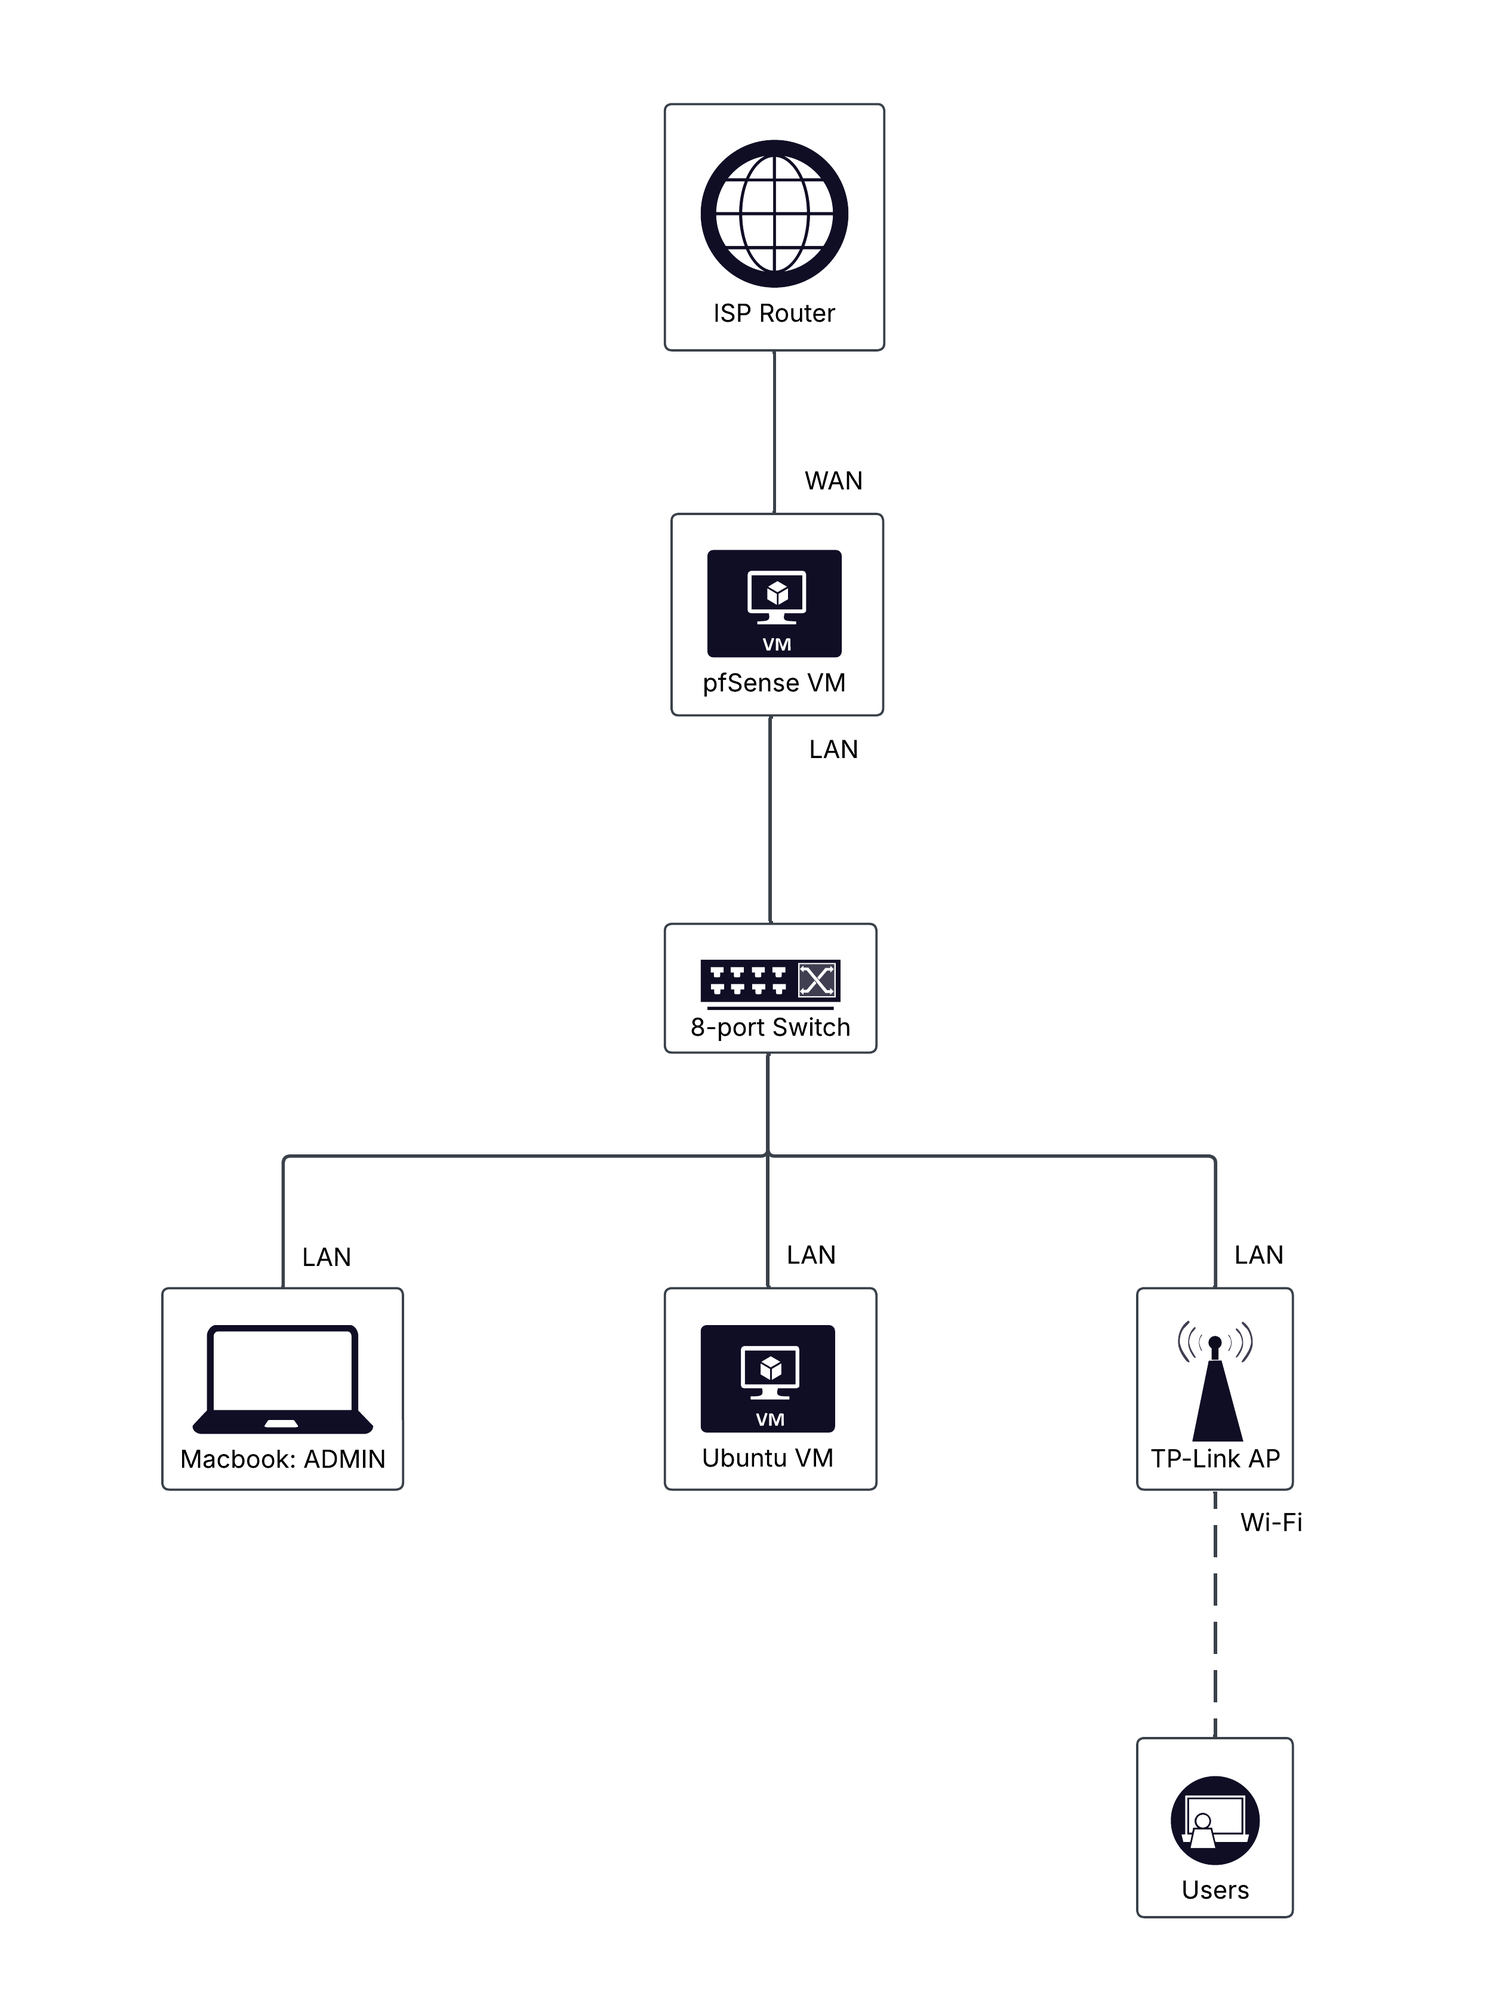
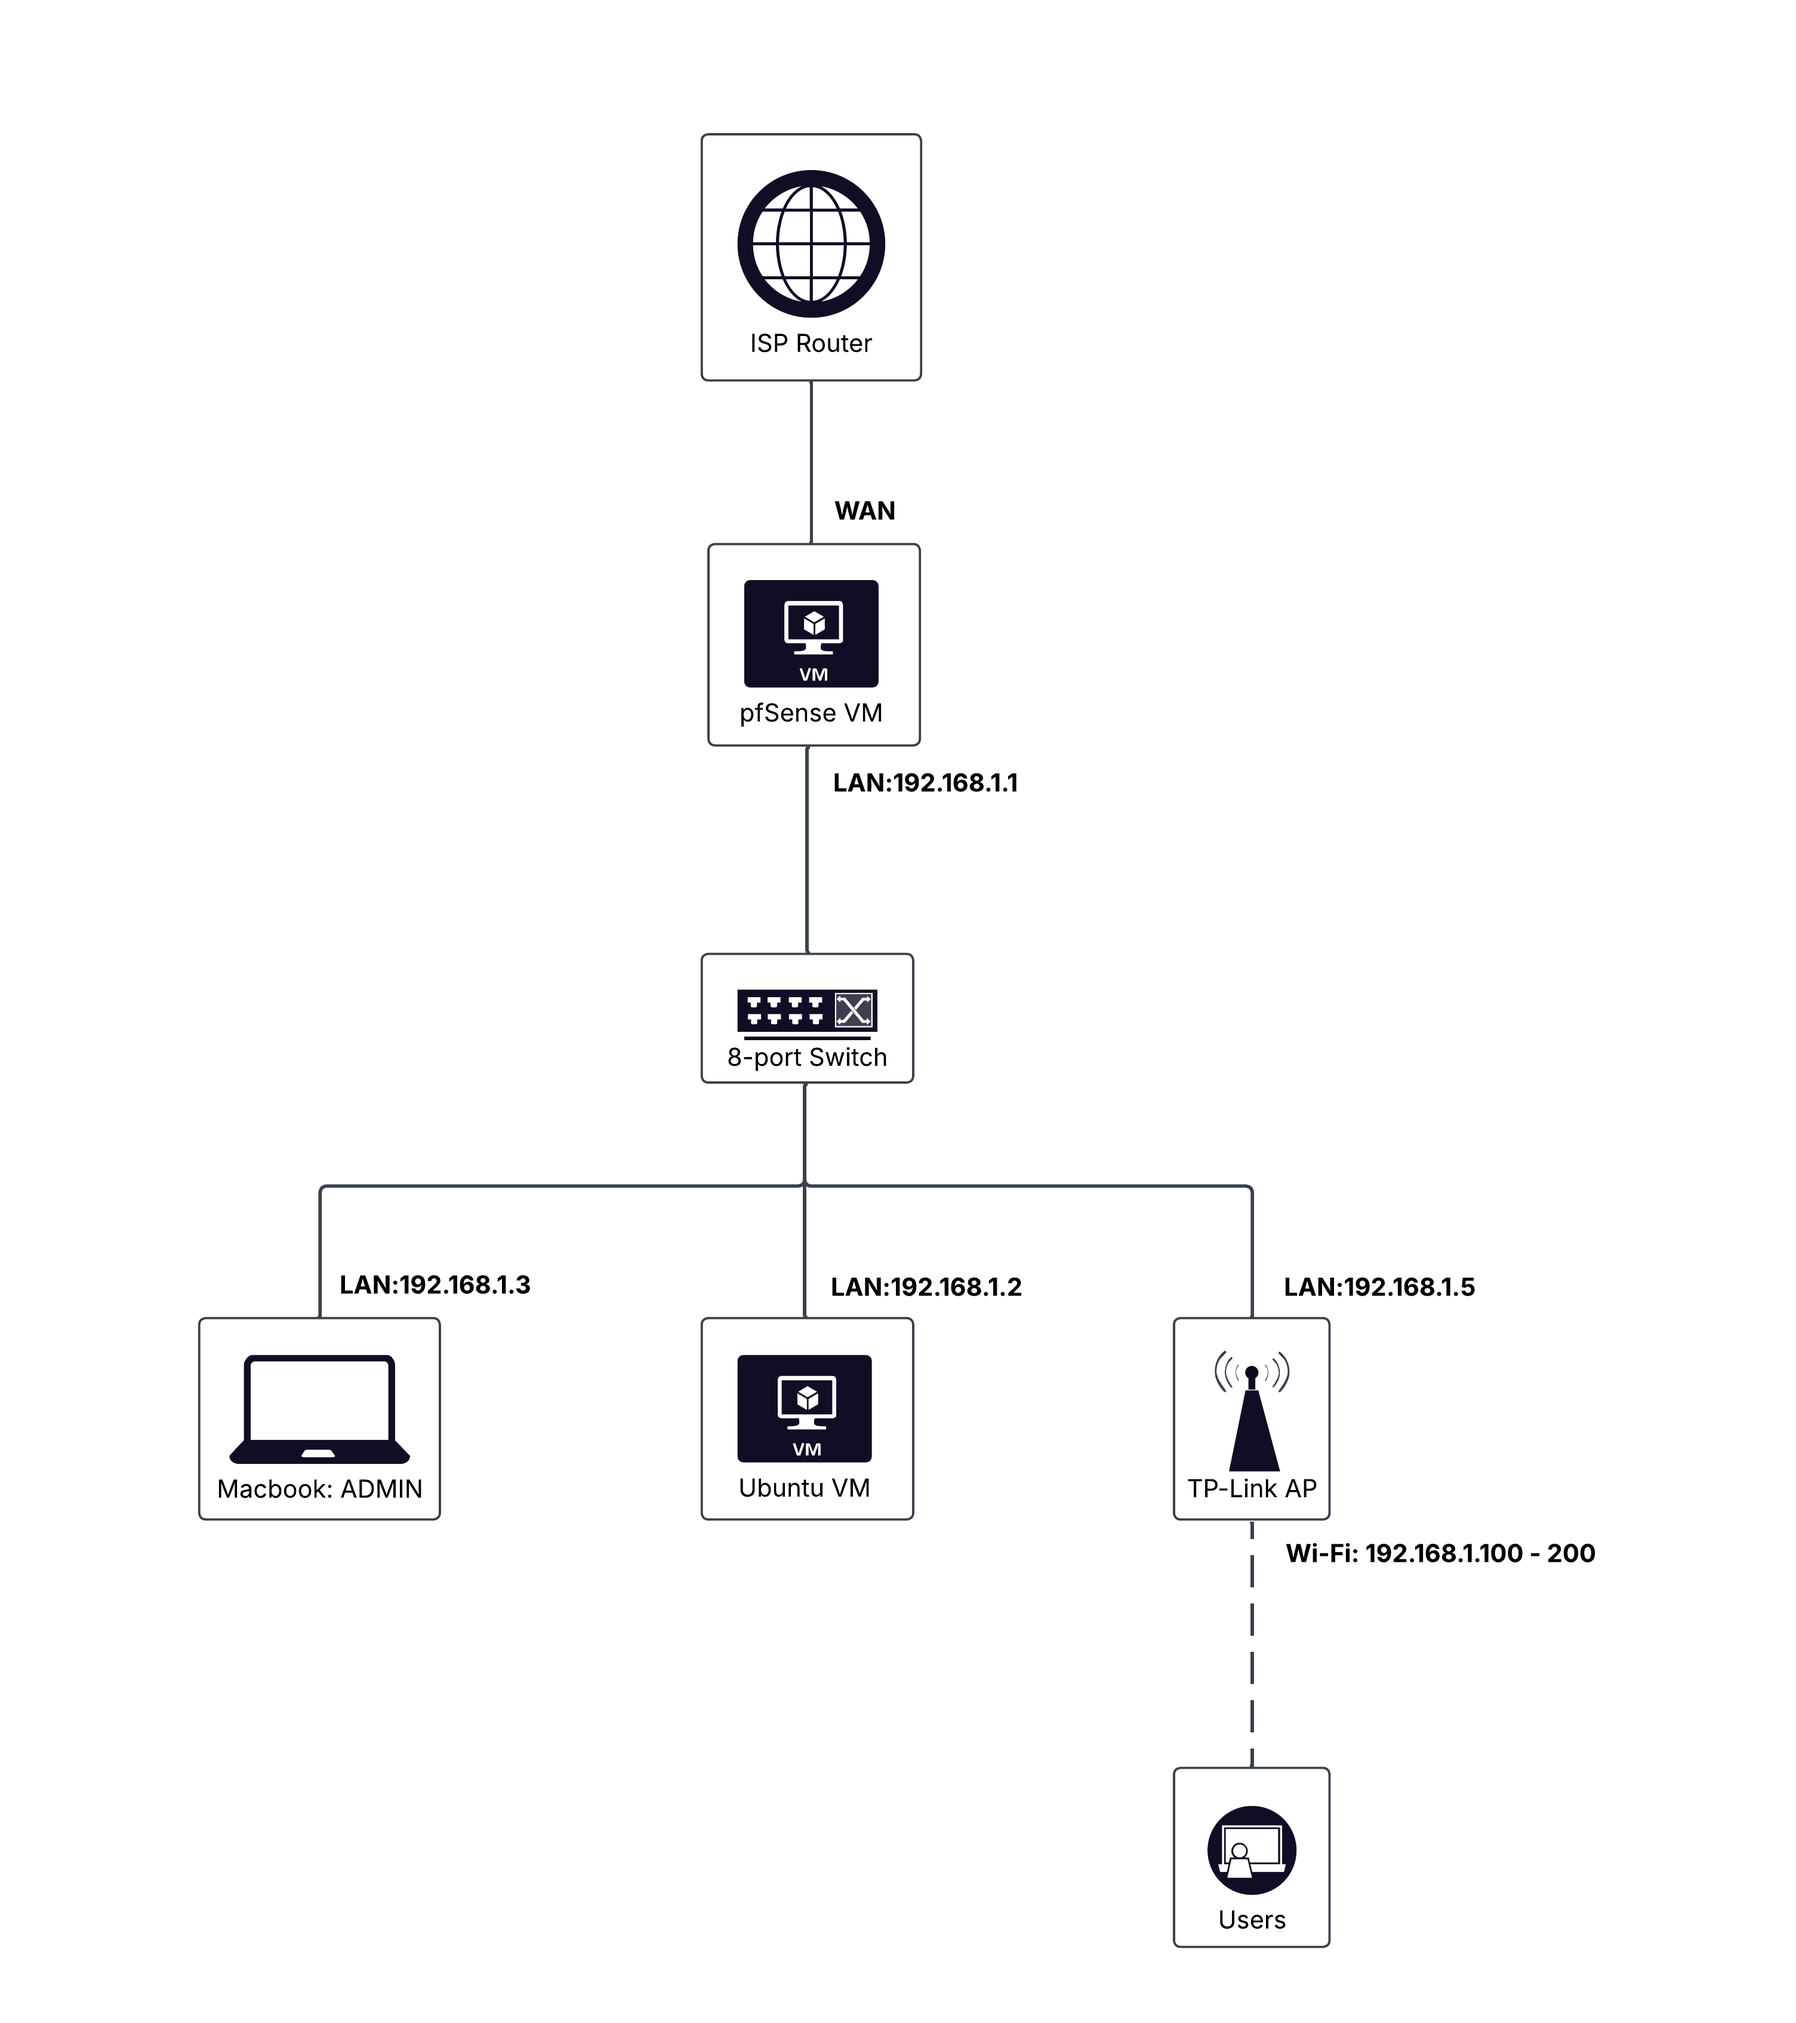
Update commit: add updated openhaus project structure and day 2 updates

diff --git a/docs/setup_notes.md b/docs/setup_notes.md
@@ -1,0 +1,93 @@
+# OpenHaus Setup Notes
+
+## Hardware and VM Setup
+This section details the configuration of the OpenHaus network components, covering the OpenWrt AP, USB-C Ethernet, pfSense VM, and Ubuntu VM setups.
+
+---
+
+### OpenWrt AP Configuration
+**Summary**: Configuration of the OpenWrt AP to serve as a wireless access point with captive portal support.
+- **LAN**:
+  - Static IP: 192.168.1.5
+  - Subnet Mask: 255.255.255.0
+  - DHCP: Disabled
+  - Gateway: None
+- **Wireless**:
+  - SSID: OpenHaus Free Wi-Fi (Demo)
+  - Key: ********
+  - Security: WPA2-PSK/WPA3-SAE, 802.11w Optional
+- **Notes**: Relies on pfSense for DHCP and routing; OpenWrt firmware on TP-Link AP for enhanced captive portal support.
+- **Screenshots**:
+  - ![OpenWrt Config 01](/docs/images/config/OpenWrt/openwrt_config_01.png) (Dashboard)
+  - ![OpenWrt Config 02](/docs/images/config/OpenWrt/openwrt_config_02.png) (Dashboard Cont.)
+  - ![OpenWrt Config 03](/docs/images/config/OpenWrt/openwrt_config_03.png) (Wireless Settings)
+  - ![OpenWrt Config 04](/docs/images/config/OpenWrt/openwrt_config_04.png) (LAN Settings)
+
+---
+
+### Openhaus USB-C Ethernet Configuration
+**Summary**: Setup of the USB-C Ethernet adapter on the MacBook for network management.
+- **Static IP**: 192.168.1.3
+- **Subnet Mask**: 255.255.255.0
+- **Gateway**: 192.168.1.1 (pfSense)
+- **DNS**: 192.168.1.1
+- **Device**: MacBook via USB-C Ethernet adapter
+- **Notes**: Configured via MacBook Network settings.
+- **Screenshots**:
+  - ![USB-C Ethernet Config](/docs/images/config/OpenHaus USB-C to Ethernet/usbc_ethernet_config.png) (Network Settings Panel)
+
+---
+
+### pfSense VM Configuration
+**Summary**: Configuration of the pfSense VM as the primary router and firewall.
+- **LAN**:
+  - Static IP: 192.168.1.1/24
+  - DHCP: Enabled
+  - DHCP Range: 192.168.1.100 - 200
+  - DNS Servers: 127.0.0.1 (local), 8.8.8.8 (Google), 1.1.1.1 (Cloudflare)
+  - Upstream Gateway: None
+- **WAN**:
+  - Dynamic IP: From Wi-Fi (ISP) via Bridged (Wi-Fi)
+- **System Settings**:
+  - Hostname: openhaus-pfsense
+  - Domain: home.openhaus
+  - DNS Resolver: Enabled
+  - DNS Override by DHCP/PPP: Disabled
+- **Notes**: WebConfigurator accessed via https://192.168.1.1
+- **Screenshots**:
+  - ![pfSense VM Config 01](/docs/images/config/pfSense/VM/pfsense_vm_config_01.png) (VM Settings)
+  - ![pfSense VM Config 02](/docs/images/config/pfSense/VM/pfsense_vm_config_02.png) (DHCP & LAN Configuration)
+  - ![pfSense VM Config 03](/docs/images/config/pfSense/VM/pfsense_vm_config_03.png) (DHCP & LAN Configuration Cont.)
+  - ![pfSense WebConfigurator Config 01](/docs/images/config/pfSense/WebConfigurator/pfsense_webconfigurator_config_01.png) (Dashboard)
+  - ![pfSense WebConfigurator Config 02](/docs/images/config/pfSense/WebConfigurator/pfsense_webconfigurator_config_02.png) (General Setup)
+  - ![pfSense WebConfigurator Config 03](/docs/images/config/pfSense/WebConfigurator/pfsense_webconfigurator_config_03.png) (LAN Interface)
+  - ![pfSense WebConfigurator Config 04](/docs/images/config/pfSense/WebConfigurator/pfsense_webconfigurator_config_04.png) (WAN Interface)
+
+---
+
+### Ubuntu VM Setup
+**Summary**: Setup of the Ubuntu VM for hosting CoovaChilli and FreeRADIUS, including network configuration and testing.
+- **Static IP**: 192.168.1.2
+- **Subnet Mask**: 255.255.255.0
+- **Gateway**: 192.168.1.1 (pfSense)
+- **DNS**: 192.168.1.1, 8.8.8.8
+- **Network Interface**: ens33
+- **Netplan Config**: `/etc/netplan/00-installer-config.yaml`
+  ```yaml
+  network:
+    ethernets:
+      ens33:
+        dhcp4: no
+        addresses: [192.168.1.2/24]
+        nameservers:
+          addresses: [192.168.1.1, 8.8.8.8]
+        routes:
+          - to: default
+            via: 192.168.1.1
+    version: 2
+- **Screenshots**:
+  - ![Ubuntu Network Config 01](/docs/images/config/Ubuntu/ubuntu_network_config_01.png) (Netplan File Edit)
+  - ![Ubuntu Network Config 02](/docs/images/config/Ubuntu/ubuntu_network_config_02.png) (Network Status Check)
+  - ![Ubuntu Network Config 03](/docs/images/config/Ubuntu/ubuntu_network_config_03.png) (IP Address Confirmation)
+  - ![Ubuntu Ping Success](/docs/images/config/Ubuntu/ubuntu_ping_success.png) (Ping Test to 8.8.8.8)
+  - ![Ubuntu SSH Login Success](/docs/images/config/Ubuntu/ubuntu_ssh_login_success.png) (SSH Session from Mac Terminal)

diff --git a/docs/network_architecture.md b/docs/network_architecture.md
@@ -1,34 +1,57 @@
 # OpenHaus Network Architecture
 
+## Overview
+The OpenHaus network is designed to provide secure, managed internet access through a captive portal and integrated vendor marketplace. It leverages virtual machines, a wireless access point, and a switch, with statically managed IP assignments within the 192.168.1.0/24 subnet.
+
 ## Components
-- **ISP Router**: Provides internet connectivity to **pfSense VM**.
-- **pfSense VM**: Main router and firewall (WAN to ISP, LAN to **Switch**).
-- **TP-Link AP**: Wireless access point for user **Wi-Fi** connections.
-- **Ubuntu VM**: Hosts **CoovaChilli** (captive portal) and **FreeRADIUS** (AAA).
-- **Switch**: Connects **MacBook**, **TP-Link AP**, and **VMs**.
-- **MacBook**: Admin workstation for network management.
+- **ISP Router**: Provides internet connectivity to the pfSense VM via WAN.
+- **pfSense VM**: Acts as the primary router, firewall, and DHCP server.
+- **OpenWrt AP**: Serves as a wireless access point for user Wi-Fi connections.
+- **Ubuntu VM**: Hosts CoovaChilli (captive portal) and FreeRADIUS (AAA) services.
+- **Switch**: Connects the MacBook, TP-Link AP, and VMs.
+- **MacBook (USB-C Ethernet)**: Used for network management and testing.
+
+## IP Assignments
+- **pfSense VM (Router/Firewall)**:
+  - LAN: 192.168.1.1/24
+  - DHCP Range: 192.168.1.100 - 200
+  - WAN: Dynamic IP (Bridged via Wi-Fi)
+- **OpenWrt AP**:
+  - Static IP: 192.168.1.5/24
+  - SSID: OpenHaus Free Wi-Fi (Demo)
+  - Security: WPA2-PSK/WPA3-SAE
+- **Ubuntu VM**:
+  - Static IP: 192.168.1.2/24
+  - Gateway: 192.168.1.1 (pfSense)
+  - DNS: 192.168.1.1, 8.8.8.8
+- **Openhaus USB-C Ethernet (MacBook)**:
+  - Static IP: 192.168.1.3/24
+  - Gateway: 192.168.1.1 (pfSense)
+  - DNS: 192.168.1.1
+
+## Network Diagram
+![Network Architecture](/docs/images/network_architecture.png)  
 
 ## Flow Diagram
-[ISP Router] → [pfSense VM: WAN]
-[pfSense VM: LAN] → [Switch]
-→ [TP-Link AP] → [Users]
-→ [Ubuntu VM: CoovaChilli + FreeRADIUS]
-→ [MacBook: Admin]
-
-## Diagram
-![OpenHaus Network Architecture Diagram](/docs/images/network_architecture.png)
+ISP Router → pfSense VM → Switch → [OpenWrt AP, Ubuntu VM, MacBook]
 
 ## Session Flow
-1. User connects to **Wi-Fi** via **TP-Link AP**.
-2. **TP-Link AP** redirects to **CoovaChilli** captive portal.
-3. User authenticates via **FreeRADIUS** (OTP/email verification).
-4. Captive portal grants access based on account type (**guest**, **registered**, **premium**).
-5. Mobile app syncs with portal for seamless login.
+1. Wi-Fi Connection: User connects to OpenWrt AP (SSID: OpenHaus Free Wi-Fi).
+2. Captive Portal: Redirected to CoovaChilli on Ubuntu VM.
+3. Authentication: User authenticates via FreeRADIUS (OTP/email).
+4. Access Granted: captive portal grants access based on account type.(**Guest**, **Registered**, **Premium**).
+5. Mobile App Sync: App syncs with portal for seamless login.
+
+## Connectivity
+- **Ping Tests**: Successful from Ubuntu VM to 192.168.1.1 (pfSense) and 192.168.1.5 (OpenWrt AP).
+- **SSH**: Successful login from MacBook to Ubuntu VM (`ssh openhaus@192.168.1.2`).
+
+## Notes
+- VMware Bridged network must align with USB-C Ethernet.
+- Potential IP conflicts to verify (e.g., 192.168.1.2, 1.3, 1.5).
 
 ## Related Documentation
 - [Project Overview](docs/project_overview.md)
 - [Setup Notes](docs/setup_notes.md)
-- [Progress Logs](docs/progress_logs/day1_planning.md)
-- [GitHub Repo](https://lnkd.in/dFRRjj85)
-
-
+- [Progress Logs](docs/progress_logs)
+- [GitHub Repo](https://github.com/savedyute/openhaus-project)

diff --git a/docs/project_overview.md b/docs/project_overview.md
@@ -1,19 +1,55 @@
 # OpenHaus Project Overview
 
-## Vision
-OpenHaus delivers **secure internet access** and an **integrated vendor marketplace** to campus communities, creating a seamless, affordable, and community-driven connectivity solution. It’s your gateway to community.
+## What is OpenHaus?
+OpenHaus is a platform designed to deliver secure internet access and an integrated vendor marketplace to campuses. It serves as a gateway to community connectivity, enabling students, staff, and vendors to:
+- Connect via a branded captive portal.
+- Manage accounts, subscriptions, and usage.
+- Explore a campus vendor marketplace.
 
-## Objectives
-- Provide free or affordable Wi-Fi for students and staff.
-- Enable a marketplace for campus vendors to offer services and products.
-- Track engagement, usage, and adoption via authentication and logs.
-- Integrate mobile and web platforms with a custom captive portal for a seamless user experience.
+## Project Goals
+- Build a robust network infrastructure to support user access and services.
+- Deploy a custom captive portal for user authentication.
+- Integrate a marketplace for campus vendors.
+- Develop a companion mobile app and website.
 
 ## Core Components
-- **pfSense**: Firewall and routing for network security and management.
-- **CoovaChilli**: Captive portal for user login and session control.
-- **FreeRADIUS**: Authentication, authorization, and accounting (AAA) system.
 - **Custom Captive Portal**: Branded web interface for user access.
 - **Website**: Information hub with pricing, FAQs, and vendor onboarding.
 - **Mobile App**: User-friendly companion for connectivity and marketplace access.
+
+## Tech Stack
+- **Networking**: pfSense, OpenWrt (TP-Link AP), CoovaChilli, FreeRADIUS.
+- **Web**: React / Django (TBD for Website and Captive Portal).
+- **Mobile**: React Native / Flutter (TBD for Mobile App).
+- **Infrastructure**: Ubuntu VM, TP-Link AP, MacBook (USB-C Ethernet), Switch.
+
+## Current Status
+The project has completed the Day 2 setup, establishing a functional network infrastructure to support the core components:
+- Configured pfSense VM as the router/firewall with LAN IP 192.168.1.1/24, DHCP range 192.168.1.100-200, and WAN via Bridged Wi-Fi.
+- Set up OpenWrt AP with static IP 192.168.1.5/24, SSID "OpenHaus Free Wi-Fi (Demo)", and WPA2-PSK/WPA3-SAE security.
+- Configured Ubuntu VM with static IP 192.168.1.2/24.
+- Established Openhaus USB-C Ethernet (MacBook) with static IP 192.168.1.3/24 for management.
+- Verified connectivity with successful ping tests from Ubuntu VM to 192.168.1.1 (pfSense) and 192.168.1.5 (OpenWrt AP), and SSH login from MacBook to Ubuntu VM (`ssh openhaus@192.168.1.2`).
+- Updated documentation with configuration screenshots in `/docs/images/config/`.
+
+## Next Steps
+- **Day 3**: Develop and deploy the Custom Captive Portal on the Ubuntu VM.
+- Design the Website with pricing, FAQs, and vendor onboarding features.
+- Build the Mobile App for connectivity and marketplace access.
+- Test user authentication workflows and scalability.
+
+## Roadmap
+- [x] Build base network (pfSense + CoovaChilli + FreeRADIUS)
+- [ ] Deploy custom captive portal design
+- [ ] Launch website (campus + vendor portal)
+- [ ] Develop user mobile app
+- [ ] Integrate marketplace features
+
+## Repository Structure
+- `/docs/`: Project documentation and images
+- `/configs/`: Configuration files
+- `/captive_portal/`: Captive portal code
+- `/website/`: Website source
+- `/mobile_app/`: Mobile app source
+- `/scripts/`: Deployment scripts
 

diff --git a/docs/progress_logs/day2_setup.md b/docs/progress_logs/day2_setup.md
@@ -1,0 +1,41 @@
+# Day 2 – Hardware and VM Setup
+**Date**: September 25, 2025
+
+## Goals
+- Install and configure pfSense VM
+- Set up Ubuntu VM with static IP and services
+- Configure OpenWrt AP and USB-C Ethernet
+- Test network connectivity
+- Update documentation
+
+## Tasks Completed
+- Installed Ubuntu VM with full server setup on September 25, 2025.
+- Skipped initial network configuration during Ubuntu installation.
+- Created and applied `/etc/netplan/00-installer-config.yaml` with static IP 192.168.1.2/24, gateway 192.168.1.1, and DNS 192.168.1.1, 8.8.8.8.
+- Configured OpenWrt AP with LAN IP 192.168.1.5/24, disabled DHCP, set SSID "OpenHaus Free Wi-Fi (Demo)", and WPA2-PSK/WPA3-SAE security.
+- Set up Openhaus USB-C Ethernet on MacBook with static IP 192.168.1.3/24, gateway 192.168.1.1, and DNS 192.168.1.1.
+- Installed and configured pfSense VM with LAN 192.168.1.1/24, WAN via Bridged Wi-Fi, hostname "openhaus-pfsense", and DNS resolver enabled, with DHCP range 192.168.1.100-200.
+- Verified connectivity with successful ping tests from Ubuntu VM to 192.168.1.1 (pfSense) and 192.168.1.5 (OpenWrt AP).
+- Tested SSH service with successful login from MacBook to Ubuntu VM (`ssh openhaus@192.168.1.2`).
+- Updated `/docs/setup_notes.md`, `/docs/project_overview.md`, `/docs/network_architecture.md`, and `/docs/progress_logs/day2_setup.md` with configuration details and screenshot references in `/docs/images/config/`.
+
+## Issues / Challenges
+- Missing `/etc/netplan/00-installer-config.yaml` initially; created manually.
+- YAML syntax error during netplan application (resolved by adding `-` for routes).
+- Permissions warning on netplan file (fixed with `sudo chmod 600`).
+- Deprecated `gateway4` warning in netplan (replaced with `routes`).
+- VMware Bridged network alignment with USB-C Ethernet required manual adjustment.
+
+## Next Steps
+- **Day 3**: Install and configure CoovaChilli (captive portal) and FreeRADIUS (AAA) services on the Ubuntu VM.
+- Develop and deploy the Custom Captive Portal on the Ubuntu VM.
+- Design the Website with pricing, FAQs, and vendor onboarding features.
+- Build the Mobile App for connectivity and marketplace access.
+- Test user authentication workflows and scalability of the network.
+
+## Reflections
+- Day 2 successfully established a functional network with pfSense, Ubuntu, and OpenWrt, providing a foundation for future service deployment.
+- Netplan configuration challenges improved understanding of Linux networking.
+- Connectivity tests (ping and SSH) confirmed the network’s readiness for installing CoovaChilli and FreeRADIUS.
+- Comprehensive documentation updates, including screenshots, enhance project transparency and future troubleshooting.
+- Pending installation of CoovaChilli and FreeRADIUS will be the focus for Day 3.
